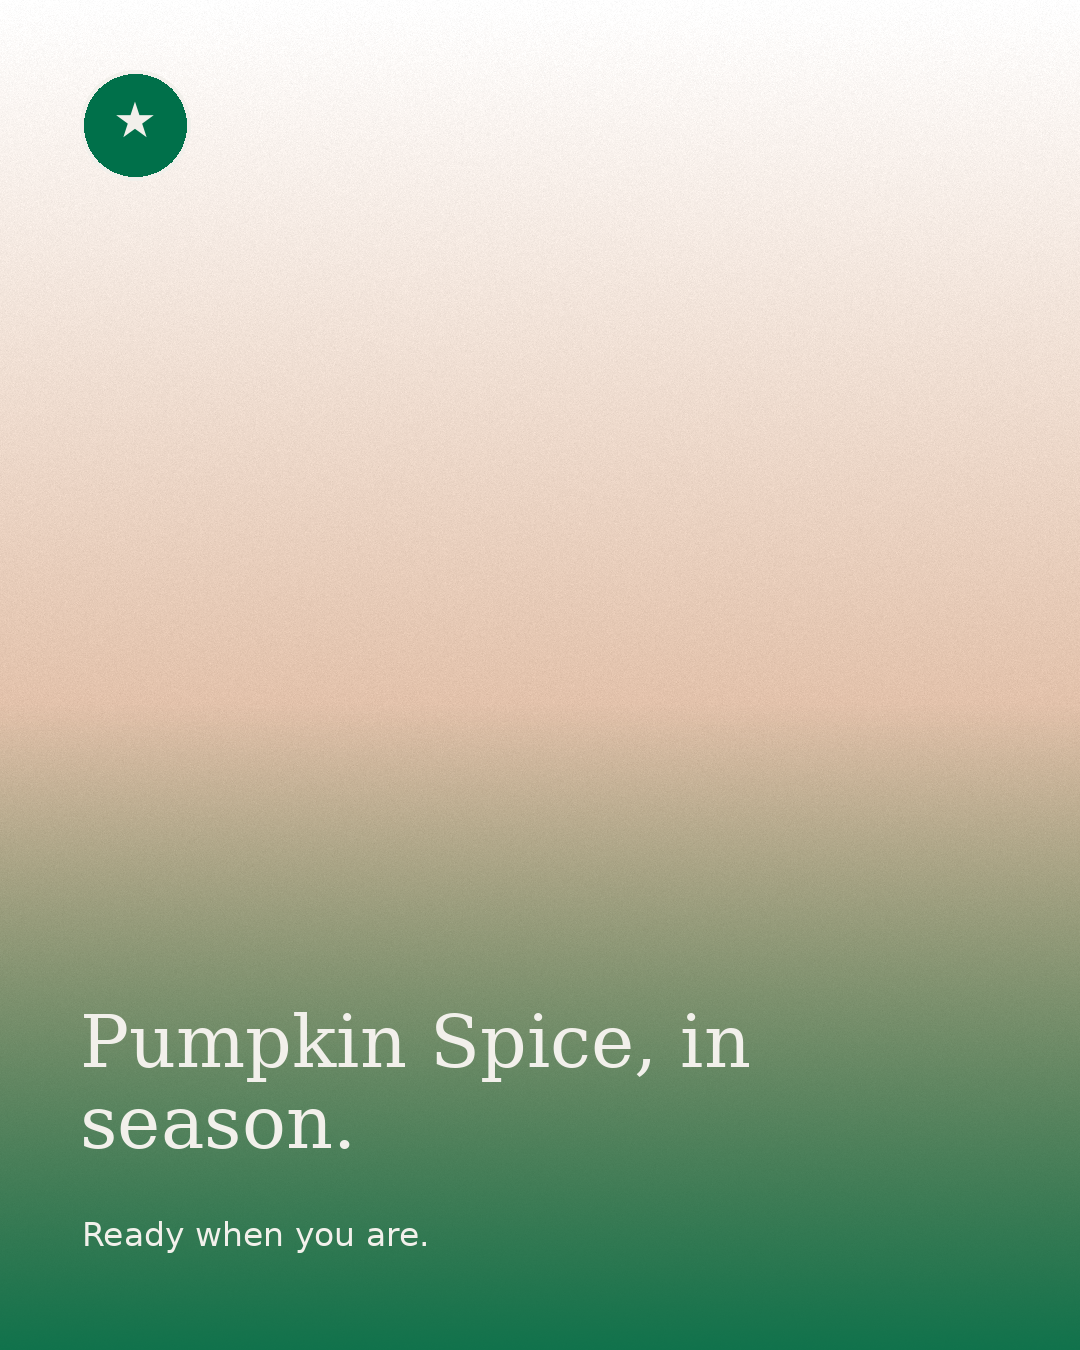
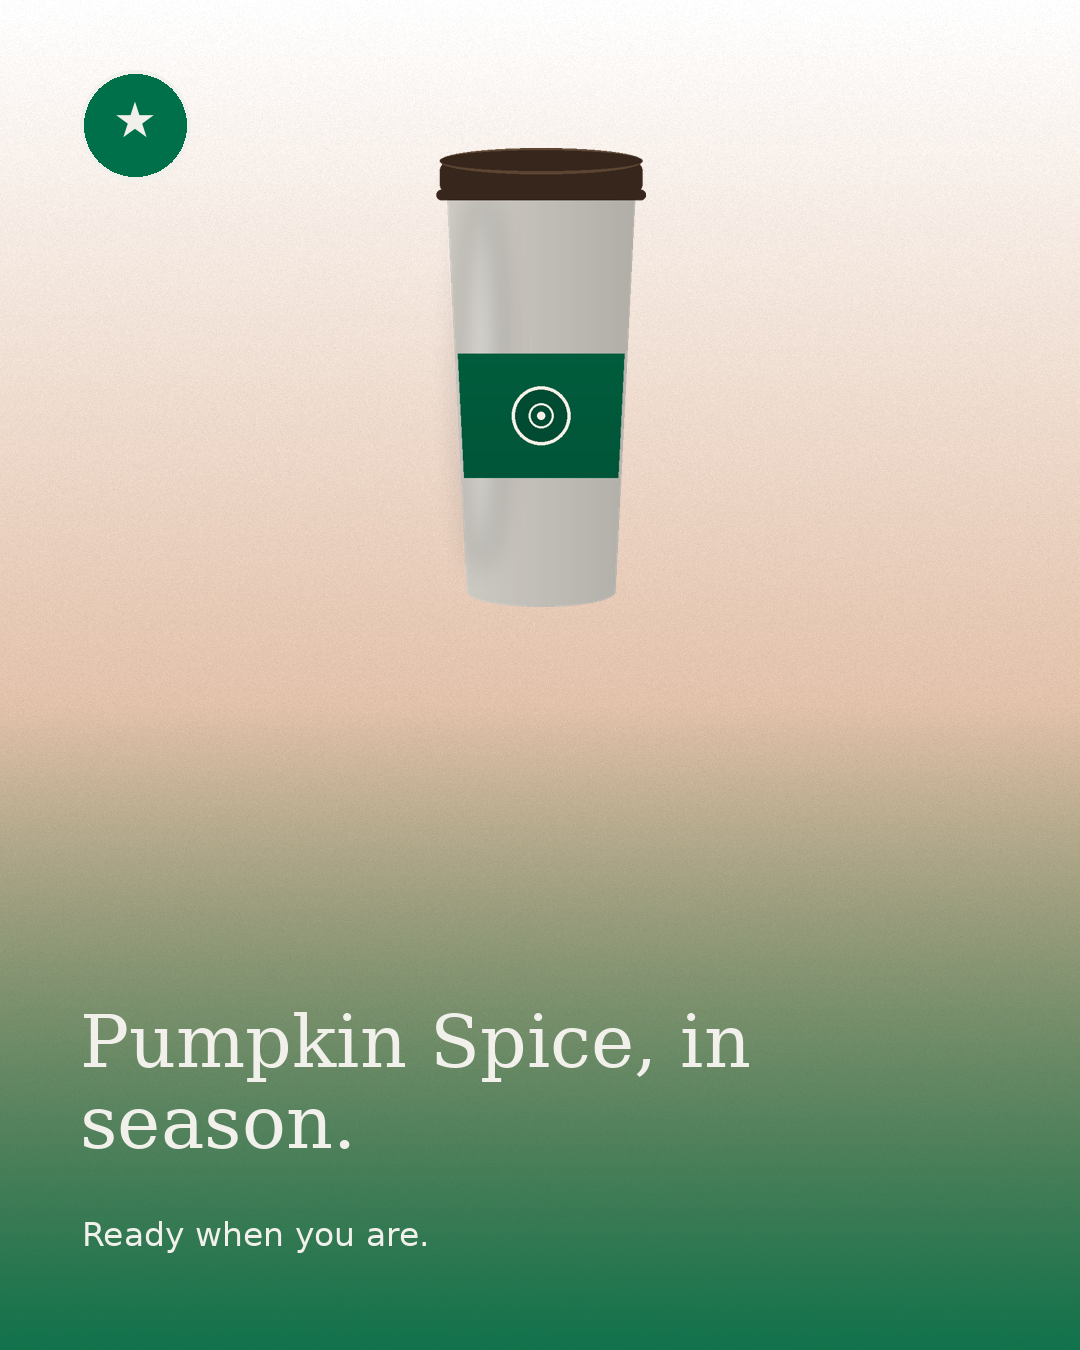
Composite the product cutout (product.png) into the ad
The pipeline rendered background + scrim + text + logo but never placed the
product. Add a product layer so a transparent product.png is composited into
the clean negative space — adapting per format (upper-center for portrait/
square, right side for landscape), scaled to fit (aspect preserved) and
centered. Skips gracefully if product.png is absent.

This makes the full layered stack real: background -> product cutout -> scrim
-> type -> logo. Drop a real, background-removed product photo in as
product.png and it appears in place of the current icon.

Claude-Session: https://claude.ai/code/session_01MJXrfn2uNURtkTZawAEDTi

Changed region(s): [[0.3972, 0.0933, 0.6111, 0.4667]]

diff --git a/generation_pipeline.py b/generation_pipeline.py
@@ -128,7 +128,13 @@ def layout_elements(W, H, palette, prompt, psrc, headline, subhead):
         text_w = W - 2 * margin
         head_y = int(H * (0.70 if square else 0.74))
         sub_y = int(H * (0.88 if square else 0.90))
+    # Product cutout sits in the clean negative space, adapting to the layout:
+    # right side for landscape (copy is lower-left), upper-center otherwise.
+    prod_box = ({"x": round(W*0.52), "y": round(H*0.12), "w": round(W*0.42), "h": round(H*0.66)}
+                if landscape else
+                {"x": round(W*0.24), "y": round(H*0.11), "w": round(W*0.52), "h": round(H*0.34)})
     elements = [
+        {"id": "product", "type": "product", "src": "product.png", "z": 6, "box": prod_box},
         {"id": "scrim", "type": "shape", "shape": "rect", "z": 5,
          "gradient": {"type": "linear", "angle": 180, "stops": [
              {"color": "brand:colors.primary", "opacity": 0.0, "at": 0.0},
@@ -292,6 +298,14 @@ class Compositor:
                 for ln in lines:
                     draw.text((b["x"], y), ln, font=font, fill=col)
                     y += int(el["size_px"] * 1.12)
+            elif el["type"] == "product":                  # transparent product cutout (product.png)
+                src = el.get("src", "product.png")
+                if os.path.exists(src):
+                    prod = Image.open(src).convert("RGBA")
+                    scale = min(b["w"]/prod.width, b["h"]/prod.height)   # contain, keep aspect
+                    nw, nh = max(1, int(prod.width*scale)), max(1, int(prod.height*scale))
+                    prod = prod.resize((nw, nh))
+                    canvas.paste(prod, (b["x"] + (b["w"]-nw)//2, b["y"] + (b["h"]-nh)//2), prod)
             elif el["type"] == "logo":                     # placeholder for Siren component
                 cx, cy, r = b["x"]+b["w"]//2, b["y"]+b["h"]//2, b["w"]//2
                 draw.ellipse([cx-r, cy-r, cx+r, cy+r], fill=(*BRAND["colors"]["primary"], 255))